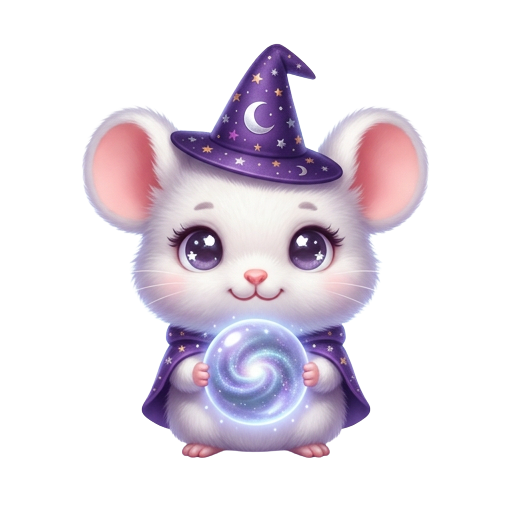
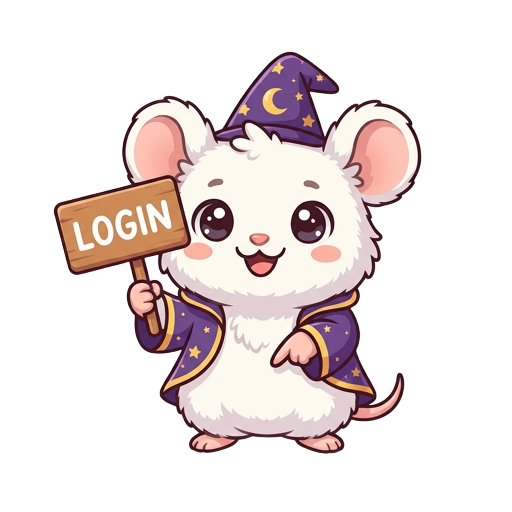
update

diff --git a/pages/profile.html b/pages/profile.html
@@ -324,7 +324,7 @@
 
   <div id="guestSection" class="guest-section">
     <div class="guest-icon">
-  <img src="../images/mascot.png" style="width:180px;height:180px;object-fit:contain;">
+  <img src="../images/mascot.png" style="width:200px;height:200px;object-fit:contain;">
 </div>
     <div class="guest-title">เข้าสู่ระบบ</div>
     <div class="guest-desc">เข้าสู่ระบบเพื่อบันทึกประวัติดูดวง<br>และเหรียญของคุณอย่างปลอดภัย<br>ข้อมูลจะ sync ทุกอุปกรณ์</div>